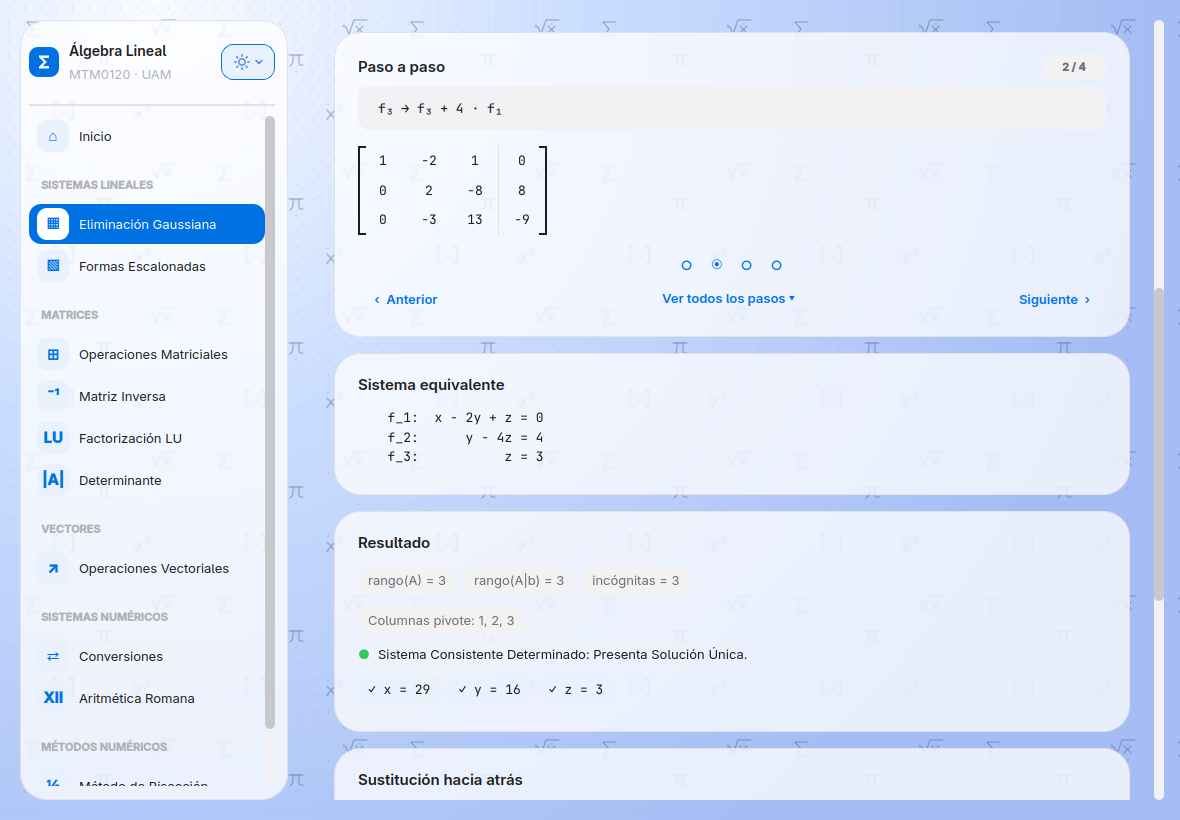
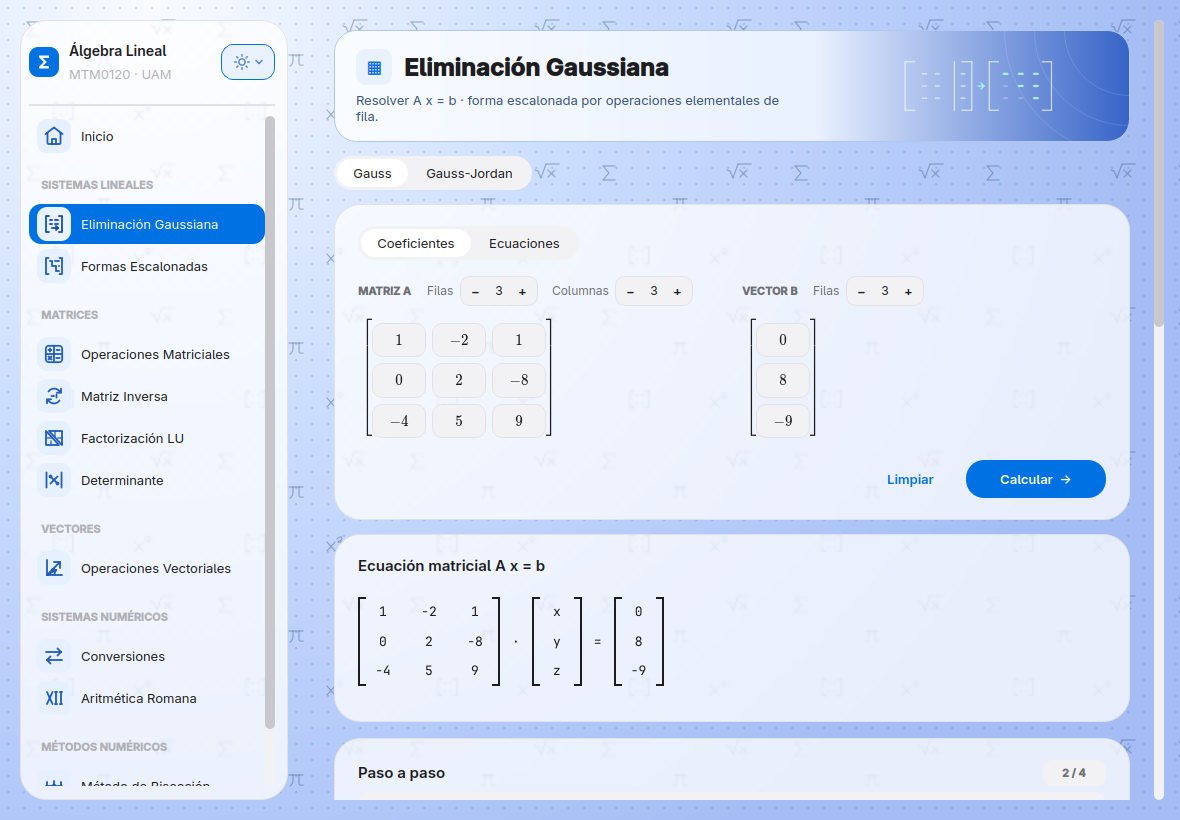
docs: refresh README screenshots

diff --git a/README.md b/README.md
@@ -25,13 +25,17 @@
 
 ---
 
+<p align="center">
+  <a href="docs/images/inicio.png"><img src="docs/images/inicio.png" width="900" alt="Inicio en tema claro, con accesos ilustrados a las herramientas y nuevos iconos en el menú lateral"></a>
+</p>
+
 <table>
   <tr>
     <th>Eliminación gaussiana · Tema claro</th>
     <th>Regula Falsi · Tema oscuro</th>
   </tr>
   <tr>
-    <td><a href="docs/images/eliminacion-gaussiana.png"><img src="docs/images/eliminacion-gaussiana.png" width="450" alt="Operación por filas, sistema equivalente y solución exacta"></a></td>
+    <td><a href="docs/images/eliminacion-gaussiana.png"><img src="docs/images/eliminacion-gaussiana.png" width="450" alt="Banner de Eliminación Gaussiana, entrada de coeficientes y ecuación matricial"></a></td>
     <td><a href="docs/images/regula-falsi.png"><img src="docs/images/regula-falsi.png" width="450" alt="Editor MathLive y gráfica de cos(x) menos x con el intervalo y la aproximación"></a></td>
   </tr>
 </table>
